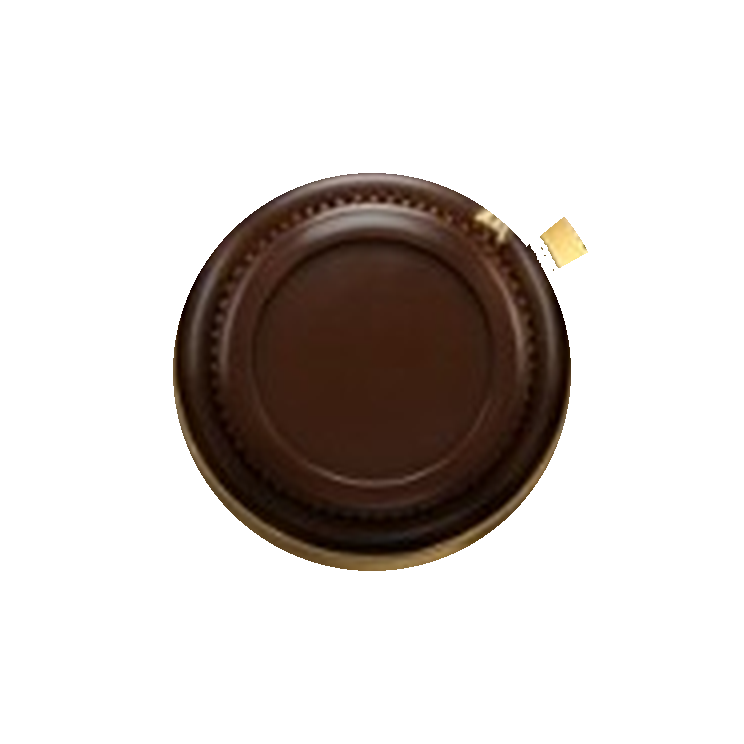
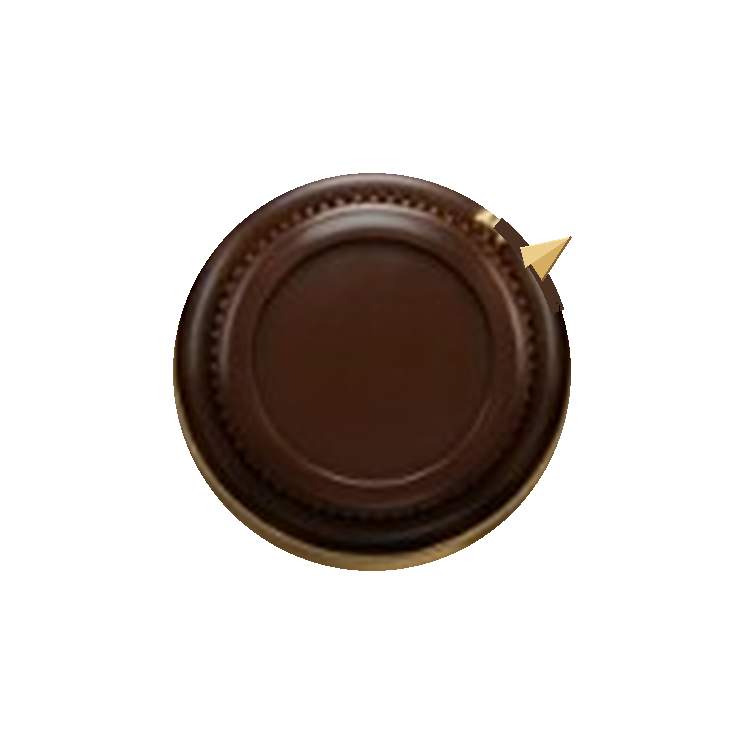
w

Changed region(s): [[0.6492, 0.2782, 0.8038, 0.4328]]

diff --git a/public/css/radio.css b/public/css/radio.css
@@ -7517,7 +7517,7 @@ audio {
   aspect-ratio: 978 / 508 !important;
   border-radius: 16px;
   background-color: #140e0a !important;
-  background-image: url("/img/skins/vintage-50-face.jpg?v=227") !important;
+  background-image: url("/img/skins/vintage-50-face.jpg?v=228") !important;
   background-size: 100% 100% !important;
   background-position: center !important;
   background-repeat: no-repeat !important;
@@ -7730,65 +7730,46 @@ audio {
   height: 36.61%;
   opacity: 1;
   overflow: visible;
-  background: url("/img/skins/vintage-50-crown.png?v=227") center / 100% 100% no-repeat !important;
+  background: url("/img/skins/vintage-50-crown.png?v=228") center / 100% 100% no-repeat !important;
   filter: drop-shadow(0 10px 8px rgba(40, 24, 8, 0.35));
 }
 .radio.skin-vintage50 #tuneKnob > *:not(#tuneSpin) { display: none !important; }
 .radio.skin-vintage50 #tuneSpin {
-  background: url("/img/skins/vintage-50-spin.png?v=227") center / 100% 100% no-repeat !important;
+  background: url("/img/skins/vintage-50-spin.png?v=228") center / 100% 100% no-repeat !important;
   box-shadow: none !important;
 }
 .radio.skin-vintage50 #tuneSpin * { display: none !important; }
-/* —— Pannello comandi destro: FM/AM, Mono, Auto, Preset, CH±, CAST —— */
-.radio.skin-vintage50 .key-well:has(#btnBand),
-.radio.skin-vintage50 .key-well:has(#btnPreset) {
+/* —— Pannello comandi destro: FM/AM, Mono, Auto, CH±, CAST (niente PRESET) —— */
+.radio.skin-vintage50 .key-well:has(#btnPreset),
+.radio.skin-vintage50 .mode:has(#btnPreset) {
+  display: none !important;
+  pointer-events: none !important;
+}
+.radio.skin-vintage50 .key-well:has(#btnBand) {
   opacity: 1;
   background: transparent !important;
   overflow: hidden;
   border-radius: 50%;
-}
-.radio.skin-vintage50 .key-well:has(#btnBand)::after,
-.radio.skin-vintage50 .key-well:has(#btnPreset)::after {
-  content: "";
-  position: absolute;
-  inset: 0;
-  background-repeat: no-repeat;
-  background-position: center;
-  background-size: 100% 100%;
-  pointer-events: none;
-  opacity: 0;
-  transition: opacity 0.12s ease;
-}
-.radio.skin-vintage50 .key-well:has(#btnBand) {
   left: 77.5%;
   top: 60.6%;
   width: 4.5%;
   height: 8.7%;
 }
 .radio.skin-vintage50 .key-well:has(#btnBand)::after {
-  background-image: url("/img/skins/vintage-50-fm-up.png?v=227");
-  opacity: 1;
+  content: "";
+  position: absolute;
+  inset: 0;
+  background: url("/img/skins/vintage-50-fm-up.png?v=228") center / 100% 100% no-repeat;
+  pointer-events: none;
 }
 .radio.skin-vintage50 .key-well:has(#btnBand.is-right)::after {
-  background-image: url("/img/skins/vintage-50-fm-down.png?v=227");
+  background-image: url("/img/skins/vintage-50-fm-down.png?v=228");
 }
-.radio.skin-vintage50 .key-well:has(#btnPreset) {
-  left: 86.5%;
-  top: 72.8%;
-  width: 4.5%;
-  height: 9.1%;
-}
-.radio.skin-vintage50 .key-well:has(#btnPreset)::after {
-  background-image: url("/img/skins/vintage-50-preset-up.png?v=227");
-  opacity: 1;
-}
-.radio.skin-vintage50 .key-well:has(#btnPreset.is-down)::after {
-  background-image: url("/img/skins/vintage-50-preset-down.png?v=227");
-}
+/* Mono / Auto: pin crema digitale che SCORRE (niente flip) */
 .radio.skin-vintage50 .key-well:has(#btnMono),
 .radio.skin-vintage50 .key-well:has(#btnAuto) {
   opacity: 1;
-  overflow: hidden;
+  overflow: visible;
   background: transparent !important;
   border-radius: 999px;
 }
@@ -7796,12 +7777,14 @@ audio {
 .radio.skin-vintage50 .key-well:has(#btnAuto)::after {
   content: "";
   position: absolute;
-  inset: 0;
-  background-repeat: no-repeat;
-  background-position: center;
-  background-size: 100% 100%;
+  top: 14%;
+  width: 34%;
+  height: 72%;
+  border-radius: 50%;
+  background: url("/img/skins/vintage-50-slide.png?v=228") center / 100% 100% no-repeat;
+  box-shadow: 0 2px 3px rgba(40, 24, 8, 0.45);
+  transition: left 0.18s ease;
   pointer-events: none;
-  transition: transform 0.16s ease;
 }
 .radio.skin-vintage50 .key-well:has(#btnMono) {
   left: 84.7%;
@@ -7815,22 +7798,10 @@ audio {
   width: 9.6%;
   height: 7.9%;
 }
-/* Mono: foto con pin a destra; mono = mirror */
-.radio.skin-vintage50 .key-well:has(#btnMono)::after {
-  background-image: url("/img/skins/vintage-50-mono-right.png?v=227");
-  transform: scaleX(-1);
-}
-.radio.skin-vintage50 .key-well:has(#btnMono.is-right)::after {
-  transform: none;
-}
-/* Auto: foto con pin a sinistra; manuale = mirror */
-.radio.skin-vintage50 .key-well:has(#btnAuto)::after {
-  background-image: url("/img/skins/vintage-50-auto-left.png?v=227");
-  transform: none;
-}
-.radio.skin-vintage50 .key-well:has(#btnAuto.is-right)::after {
-  transform: scaleX(-1);
-}
+.radio.skin-vintage50 .key-well:has(#btnMono)::after,
+.radio.skin-vintage50 .key-well:has(#btnAuto)::after { left: 10%; }
+.radio.skin-vintage50 .key-well:has(#btnMono.is-right)::after,
+.radio.skin-vintage50 .key-well:has(#btnAuto.is-right)::after { left: 56%; }
 .radio.skin-vintage50 .key-well:has(#btnChDown),
 .radio.skin-vintage50 .key-well:has(#btnChUp),
 .radio.skin-vintage50 .key-well:has(#btnCast) {

diff --git a/public/sw.js b/public/sw.js
@@ -1,12 +1,12 @@
 /* MyTuner — PWA + guardian standby (presenza Connect di backup, non sostituisce la pagina) */
-const CACHE = 'mytuner-fs-v227';
+const CACHE = 'mytuner-fs-v228';
 const ASSETS = [
   '/',
   '/index.html',
   '/css/radio.css',
-  '/css/radio.css?v=226',
+  '/css/radio.css?v=228',
   '/js/main.js',
-  '/js/main.js?v=226',
+  '/js/main.js?v=228',
   '/img/skins/vintage-50.jpg',
   '/img/skins/vintage-50-face.jpg',
   '/img/skins/vintage-50-crown.png',

diff --git a/public/js/main.js b/public/js/main.js
@@ -1,4 +1,4 @@
-const APP_VERSION = 'v227';
+const APP_VERSION = 'v228';
 
 /* Hub remoto: in APK/offline gli asset sono locali (Capacitor), API/stream restano sul worker */
 const HUB_ORIGIN = (() => {
